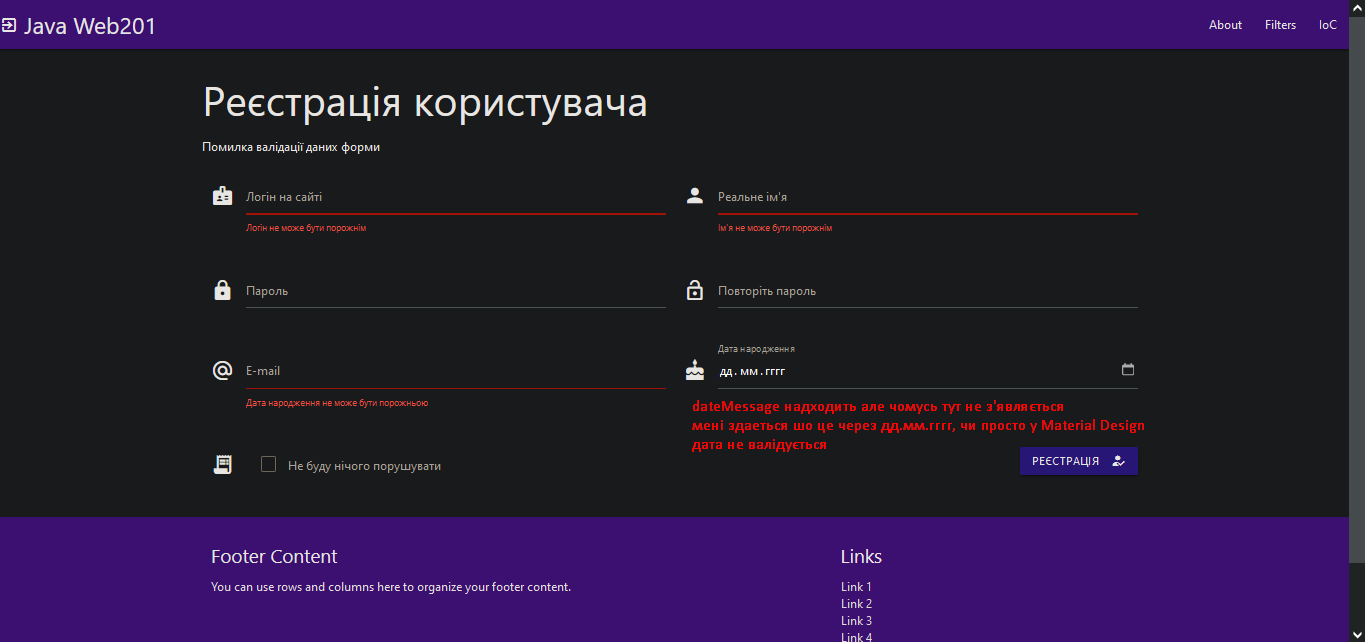
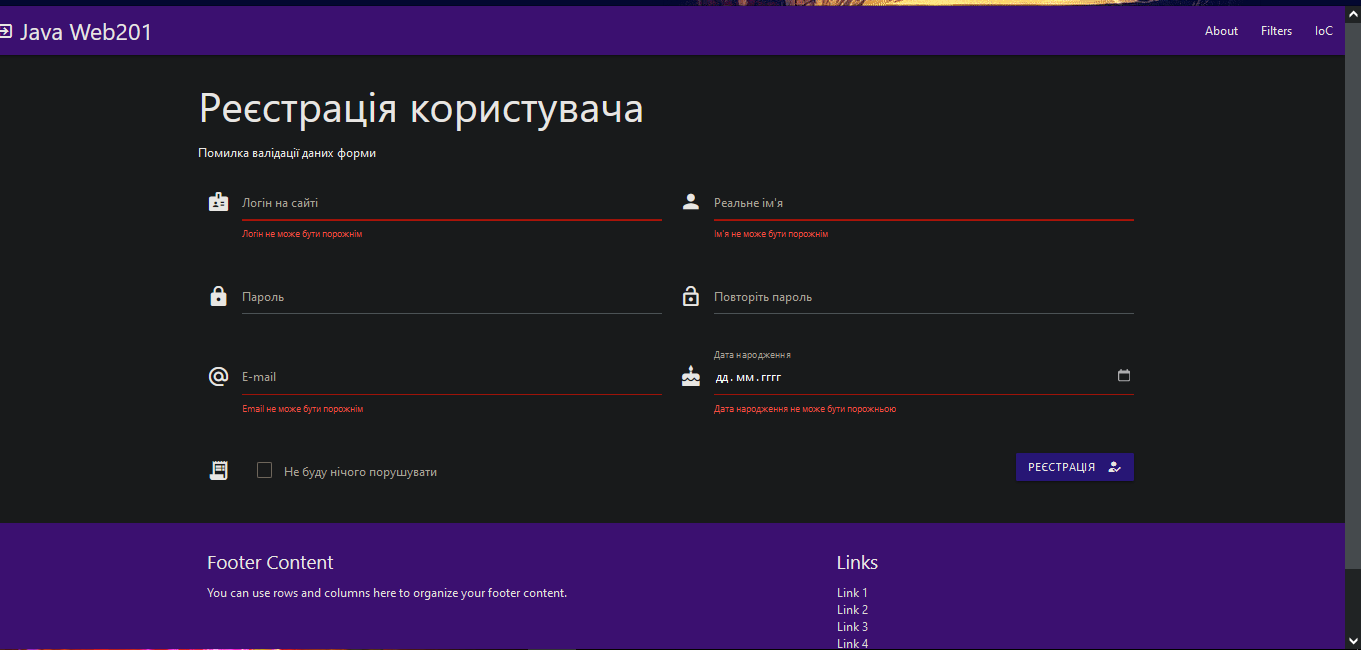
[FIX]Homework 3.

diff --git a/src/main/java/step/learning/dto/models/RegFormModel.java b/src/main/java/step/learning/dto/models/RegFormModel.java
@@ -63,7 +63,7 @@ public class RegFormModel {
         }
         if (getBirthdateAsString().isEmpty()) {
             isValid = false;
-            result.setEmailMessage("Дата народження не може бути порожньою");
+            result.setDateMessage("Дата народження не може бути порожньою");
         }
         if (isValid) {
             return null;
